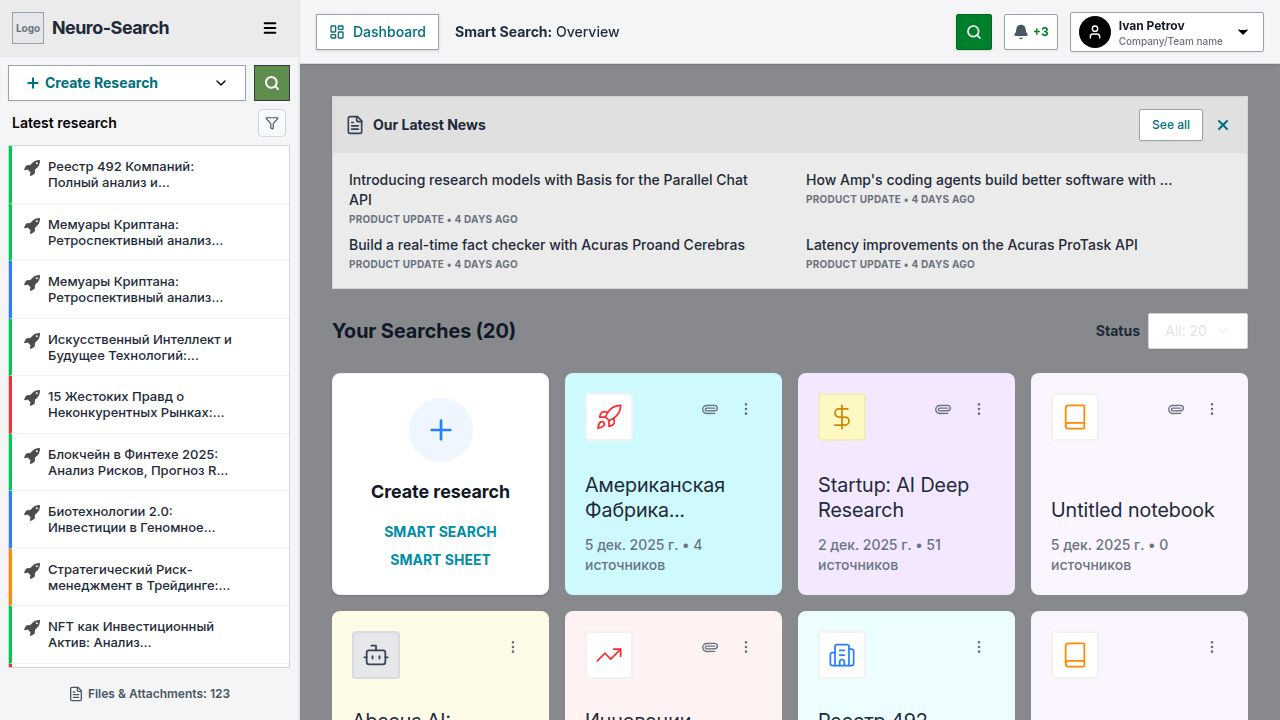
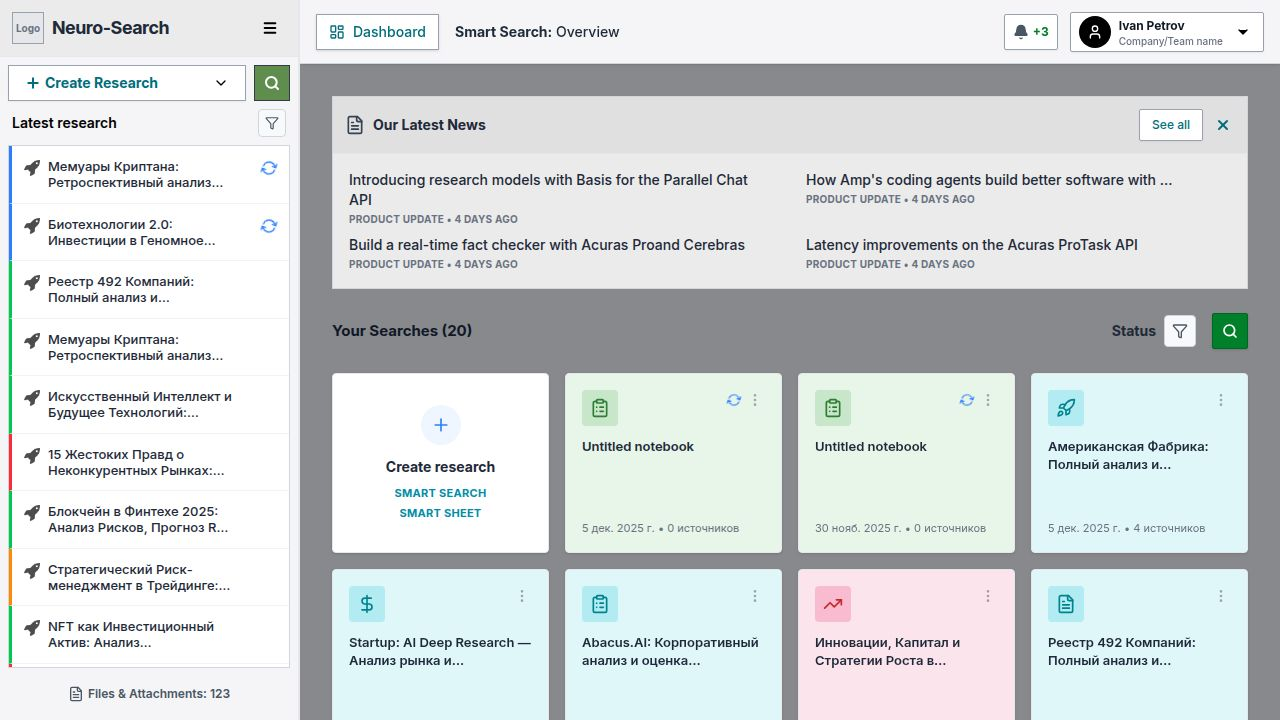
Update dashboard to display search results in a tile view
Refactors the dashboard to implement a grid-based tile view for search results, including status-specific styling, icons, and tile backgrounds.

Replit-Commit-Author: Agent
Replit-Commit-Session-Id: c900acf6-b94e-47f2-b66f-ee87c2f7ae8d
Replit-Commit-Checkpoint-Type: full_checkpoint
Replit-Commit-Event-Id: d303ca16-6638-4504-ab78-4dc5b5c5046e
Replit-Commit-Screenshot-Url: https://storage.googleapis.com/screenshot-production-us-central1/fe595c51-14bc-404d-b3eb-26338ea1ed0f/c900acf6-b94e-47f2-b66f-ee87c2f7ae8d/pLYGQJL
Replit-Helium-Checkpoint-Created: true

diff --git a/client/src/pages/dashboard.tsx b/client/src/pages/dashboard.tsx
@@ -11,6 +11,12 @@ import {
   Filter,
   Copy,
   Trash2,
+  Rocket,
+  DollarSign,
+  TrendingUp,
+  Zap,
+  ClipboardList,
+  RefreshCw,
 } from "lucide-react";
 import { Button } from "@/components/ui/button";
 import { Badge } from "@/components/ui/badge";
@@ -28,25 +34,27 @@ export default function Dashboard() {
 
   type ResearchStatus = "success" | "in-progress" | "failed" | "canceled";
 
-  const statusConfig: Record<ResearchStatus, { borderColor: string; route: string }> = {
-    "success": { borderColor: "border-l-green-500", route: "/research-success" },
-    "in-progress": { borderColor: "border-l-blue-500", route: "/research-in-progress" },
-    "failed": { borderColor: "border-l-red-500", route: "/research-failed" },
-    "canceled": { borderColor: "border-l-orange-400", route: "/research-canceled" },
+  const statusConfig: Record<ResearchStatus, { borderColor: string; route: string; tileBg: string; iconBg: string; iconColor: string }> = {
+    "success": { borderColor: "border-l-green-500", route: "/research-success", tileBg: "bg-[#E0F7FA]", iconBg: "bg-[#B2EBF2]", iconColor: "text-[#00838F]" },
+    "in-progress": { borderColor: "border-l-blue-500", route: "/research-in-progress", tileBg: "bg-[#E8F5E9]", iconBg: "bg-[#C8E6C9]", iconColor: "text-[#2E7D32]" },
+    "failed": { borderColor: "border-l-red-500", route: "/research-failed", tileBg: "bg-[#FCE4EC]", iconBg: "bg-[#F8BBD0]", iconColor: "text-[#C62828]" },
+    "canceled": { borderColor: "border-l-orange-400", route: "/research-canceled", tileBg: "bg-[#FFF3E0]", iconBg: "bg-[#FFE0B2]", iconColor: "text-[#E65100]" },
   };
 
-  const searches: { id: number; title: string; date: string; sources: number; status: ResearchStatus; hasAttachment: boolean }[] = [
-    { id: 1, title: "Американская Фабрика: Полный анализ и стратегический обзор", date: "5 дек. 2025 г.", sources: 4, status: "success", hasAttachment: true },
-    { id: 2, title: "Startup: AI Deep Research — Анализ рынка и конкурентов", date: "2 дек. 2025 г.", sources: 51, status: "success", hasAttachment: true },
-    { id: 3, title: "Untitled notebook", date: "5 дек. 2025 г.", sources: 0, status: "in-progress", hasAttachment: true },
-    { id: 4, title: "Abacus.AI: Корпоративный анализ и оценка платформы", date: "2 дек. 2025 г.", sources: 61, status: "success", hasAttachment: false },
-    { id: 5, title: "Инновации, Капитал и Стратегии Роста в Технологическом Секторе", date: "2 дек. 2025 г.", sources: 25, status: "failed", hasAttachment: true },
-    { id: 6, title: "Реестр 492 Компаний: Полный анализ и стратегический обзор", date: "2 дек. 2025 г.", sources: 2, status: "success", hasAttachment: false },
-    { id: 7, title: "Untitled notebook", date: "30 нояб. 2025 г.", sources: 0, status: "in-progress", hasAttachment: false },
-    { id: 8, title: "Потеря $1,8 млн на крипте: уроки и выводы для инвесторов", date: "24 нояб. 2025 г.", sources: 1, status: "canceled", hasAttachment: false },
-    { id: 9, title: "Мемуары Криптана: Ретродропи, стратегии и анализ", date: "23 нояб. 2025 г.", sources: 1, status: "success", hasAttachment: false },
-    { id: 10, title: "Искусственный Интеллект и Будущее Технологий", date: "17 нояб. 2025 г.", sources: 24, status: "failed", hasAttachment: false },
-    { id: 11, title: "15 Жестоких Правд о Неконкурентных Рынках", date: "16 нояб. 2025 г.", sources: 1, status: "success", hasAttachment: false },
+  const tileIcons = [Rocket, DollarSign, TrendingUp, ClipboardList, Zap, FileText];
+
+  const searches: { id: number; title: string; date: string; sources: number; status: ResearchStatus; hasAttachment: boolean; iconIdx: number }[] = [
+    { id: 1, title: "Американская Фабрика: Полный анализ и стратегический обзор", date: "5 дек. 2025 г.", sources: 4, status: "success", hasAttachment: true, iconIdx: 0 },
+    { id: 2, title: "Startup: AI Deep Research — Анализ рынка и конкурентов", date: "2 дек. 2025 г.", sources: 51, status: "success", hasAttachment: true, iconIdx: 1 },
+    { id: 3, title: "Untitled notebook", date: "5 дек. 2025 г.", sources: 0, status: "in-progress", hasAttachment: true, iconIdx: 3 },
+    { id: 4, title: "Abacus.AI: Корпоративный анализ и оценка платформы", date: "2 дек. 2025 г.", sources: 61, status: "success", hasAttachment: false, iconIdx: 3 },
+    { id: 5, title: "Инновации, Капитал и Стратегии Роста в Технологическом Секторе", date: "2 дек. 2025 г.", sources: 25, status: "failed", hasAttachment: true, iconIdx: 2 },
+    { id: 6, title: "Реестр 492 Компаний: Полный анализ и стратегический обзор", date: "2 дек. 2025 г.", sources: 2, status: "success", hasAttachment: false, iconIdx: 5 },
+    { id: 7, title: "Untitled notebook", date: "30 нояб. 2025 г.", sources: 0, status: "in-progress", hasAttachment: false, iconIdx: 3 },
+    { id: 8, title: "Потеря $1,8 млн на крипте: уроки и выводы для инвесторов", date: "24 нояб. 2025 г.", sources: 1, status: "canceled", hasAttachment: false, iconIdx: 2 },
+    { id: 9, title: "Мемуары Криптана: Ретродропи, стратегии и анализ", date: "23 нояб. 2025 г.", sources: 1, status: "success", hasAttachment: false, iconIdx: 4 },
+    { id: 10, title: "Искусственный Интеллект и Будущее Технологий", date: "17 нояб. 2025 г.", sources: 24, status: "failed", hasAttachment: false, iconIdx: 5 },
+    { id: 11, title: "15 Жестоких Правд о Неконкурентных Рынках", date: "16 нояб. 2025 г.", sources: 1, status: "success", hasAttachment: false, iconIdx: 4 },
   ];
 
   return (
@@ -178,80 +186,90 @@ export default function Dashboard() {
           </Link>
         </div>
       </div>
-      {/* Research List */}
-      <div className="bg-white rounded-md border border-gray-200 shadow-sm overflow-hidden">
-        {/* Create Research Row */}
+      {/* Research Tiles Grid */}
+      <div className="grid grid-cols-2 sm:grid-cols-3 lg:grid-cols-4 gap-4">
+        {/* Create Research Tile */}
         <Link href="/smart-search/new">
-          <div className="flex items-center gap-3 p-3 border-b border-gray-100 hover:bg-gray-50 cursor-pointer transition-colors border-l-[3px] border-l-transparent" data-testid="card-create-research">
-            <div className="w-8 h-8 rounded-full bg-blue-50 flex items-center justify-center shrink-0">
-              <Plus className="w-4 h-4 text-blue-500" />
+          <div className="bg-white rounded-lg border border-gray-200 shadow-sm p-4 flex flex-col items-center justify-center min-h-[180px] hover:shadow-md transition-shadow cursor-pointer" data-testid="card-create-research">
+            <div className="w-10 h-10 rounded-full bg-blue-50 flex items-center justify-center mb-3">
+              <Plus className="w-5 h-5 text-blue-500" />
             </div>
-            <span className="text-sm font-bold text-[#008DA8]">Create new research</span>
+            <span className="text-sm font-bold text-gray-800">Create research</span>
+            <div className="mt-2 space-y-1 text-center">
+              <span className="block text-[11px] font-bold text-[#008DA8] uppercase tracking-wide">Smart Search</span>
+              <span className="block text-[11px] font-bold text-[#008DA8] uppercase tracking-wide">Smart Sheet</span>
+            </div>
           </div>
         </Link>
 
-        {/* Research Items — in-progress first */}
+        {/* Research Item Tiles — in-progress first */}
         {[...searches].sort((a, b) => {
           if (a.status === "in-progress" && b.status !== "in-progress") return -1;
           if (a.status !== "in-progress" && b.status === "in-progress") return 1;
           return 0;
-        }).map((item) => (
-          <div
-            key={item.id}
-            className={cn(
-              "flex items-start gap-3 p-3 bg-white hover:bg-gray-50 cursor-pointer group transition-colors border-b border-gray-100 last:border-b-0 border-l-[3px]",
-              statusConfig[item.status].borderColor
-            )}
-            data-testid={`card-research-${item.id}`}
-          >
-            <Link href={`${statusConfig[item.status].route}/${item.id}`} className="flex items-start gap-3 flex-1 min-w-0">
-              <img src={rocketIcon} alt="Rocket" className="w-5 h-5 mt-0.5 shrink-0 opacity-70" />
-              <div className="flex-1 min-w-0">
-                <p className="text-[13px] leading-tight text-gray-800 line-clamp-2 font-medium">
+        }).map((item) => {
+          const config = statusConfig[item.status];
+          const IconComponent = tileIcons[item.iconIdx % tileIcons.length];
+          return (
+            <div
+              key={item.id}
+              className={cn(
+                "rounded-lg border border-gray-200 shadow-sm p-4 flex flex-col min-h-[180px] group relative hover:shadow-md transition-shadow",
+                config.tileBg
+              )}
+              data-testid={`card-research-${item.id}`}
+            >
+              <div className="flex items-start justify-between mb-3">
+                <div className={cn("w-9 h-9 rounded-lg flex items-center justify-center", config.iconBg)}>
+                  <IconComponent className={cn("w-5 h-5", config.iconColor)} />
+                </div>
+                <div className="flex items-center gap-1">
+                  {item.status === "in-progress" && (
+                    <RefreshCw className="w-3.5 h-3.5 text-blue-500 animate-[spin_10s_linear_infinite]" />
+                  )}
+                  <DropdownMenu>
+                    <DropdownMenuTrigger asChild onClick={(e) => e.preventDefault()}>
+                      <button className="p-0.5 border-0 bg-transparent opacity-60 hover:opacity-100 transition-opacity" data-testid={`kebab-menu-${item.id}`}>
+                        <MoreVertical className="w-4 h-4 text-gray-500 cursor-pointer hover:text-gray-700" />
+                      </button>
+                    </DropdownMenuTrigger>
+                    <DropdownMenuContent align="end" className="w-44 bg-[#1a1a1a] border-[#333] shadow-xl">
+                      <DropdownMenuItem
+                        className="flex items-center gap-2 text-sm text-gray-300 hover:text-white focus:text-white focus:bg-[#333] cursor-pointer"
+                        data-testid={`details-${item.id}`}
+                      >
+                        <FileText className="w-4 h-4 text-gray-400" />
+                        Details
+                      </DropdownMenuItem>
+                      <DropdownMenuItem
+                        className="flex items-center gap-2 text-sm text-[#008DA8] hover:text-[#00b0cc] focus:text-[#00b0cc] focus:bg-[#333] cursor-pointer"
+                        data-testid={`clone-${item.id}`}
+                      >
+                        <Copy className="w-4 h-4 text-[#008DA8]" />
+                        Clone & Restart
+                      </DropdownMenuItem>
+                      <DropdownMenuItem
+                        className="flex items-center gap-2 text-sm text-red-500 hover:text-red-400 focus:text-red-400 focus:bg-[#333] cursor-pointer"
+                        data-testid={`delete-${item.id}`}
+                      >
+                        <Trash2 className="w-4 h-4" />
+                        Delete
+                      </DropdownMenuItem>
+                    </DropdownMenuContent>
+                  </DropdownMenu>
+                </div>
+              </div>
+              <Link href={`${config.route}/${item.id}`} className="flex flex-col flex-1 min-w-0">
+                <p className="text-[13px] leading-snug text-gray-800 font-semibold line-clamp-2 mb-auto">
                   {item.title}
                 </p>
-                <p className="text-[11px] text-gray-400 mt-1">
+                <p className="text-[11px] text-gray-500 mt-2">
                   {item.date} • {item.sources} источников
                 </p>
-              </div>
-            </Link>
-            <div className="flex items-center gap-1 shrink-0 mt-0.5">
-              {item.hasAttachment && (
-                <Paperclip className="w-3.5 h-3.5 text-gray-400 rotate-45 opacity-0 group-hover:opacity-100 transition-opacity" />
-              )}
-              <DropdownMenu>
-                <DropdownMenuTrigger asChild onClick={(e) => e.preventDefault()}>
-                  <button className="p-0 border-0 bg-transparent opacity-0 group-hover:opacity-100 transition-opacity" data-testid={`kebab-menu-${item.id}`}>
-                    <MoreVertical className="w-3.5 h-3.5 text-gray-400 cursor-pointer hover:text-gray-700" />
-                  </button>
-                </DropdownMenuTrigger>
-                <DropdownMenuContent align="end" className="w-44 bg-[#1a1a1a] border-[#333] shadow-xl">
-                  <DropdownMenuItem
-                    className="flex items-center gap-2 text-sm text-gray-300 hover:text-white focus:text-white focus:bg-[#333] cursor-pointer"
-                    data-testid={`details-${item.id}`}
-                  >
-                    <FileText className="w-4 h-4 text-gray-400" />
-                    Details
-                  </DropdownMenuItem>
-                  <DropdownMenuItem
-                    className="flex items-center gap-2 text-sm text-[#008DA8] hover:text-[#00b0cc] focus:text-[#00b0cc] focus:bg-[#333] cursor-pointer"
-                    data-testid={`clone-${item.id}`}
-                  >
-                    <Copy className="w-4 h-4 text-[#008DA8]" />
-                    Clone & Restart
-                  </DropdownMenuItem>
-                  <DropdownMenuItem
-                    className="flex items-center gap-2 text-sm text-red-500 hover:text-red-400 focus:text-red-400 focus:bg-[#333] cursor-pointer"
-                    data-testid={`delete-${item.id}`}
-                  >
-                    <Trash2 className="w-4 h-4" />
-                    Delete
-                  </DropdownMenuItem>
-                </DropdownMenuContent>
-              </DropdownMenu>
+              </Link>
             </div>
-          </div>
-        ))}
+          );
+        })}
       </div>
       <div className="flex justify-center pt-8 pb-12">
         <Button className="bg-[#008DA8] hover:bg-[#007A92] text-white px-8 h-10 rounded-sm font-medium">
